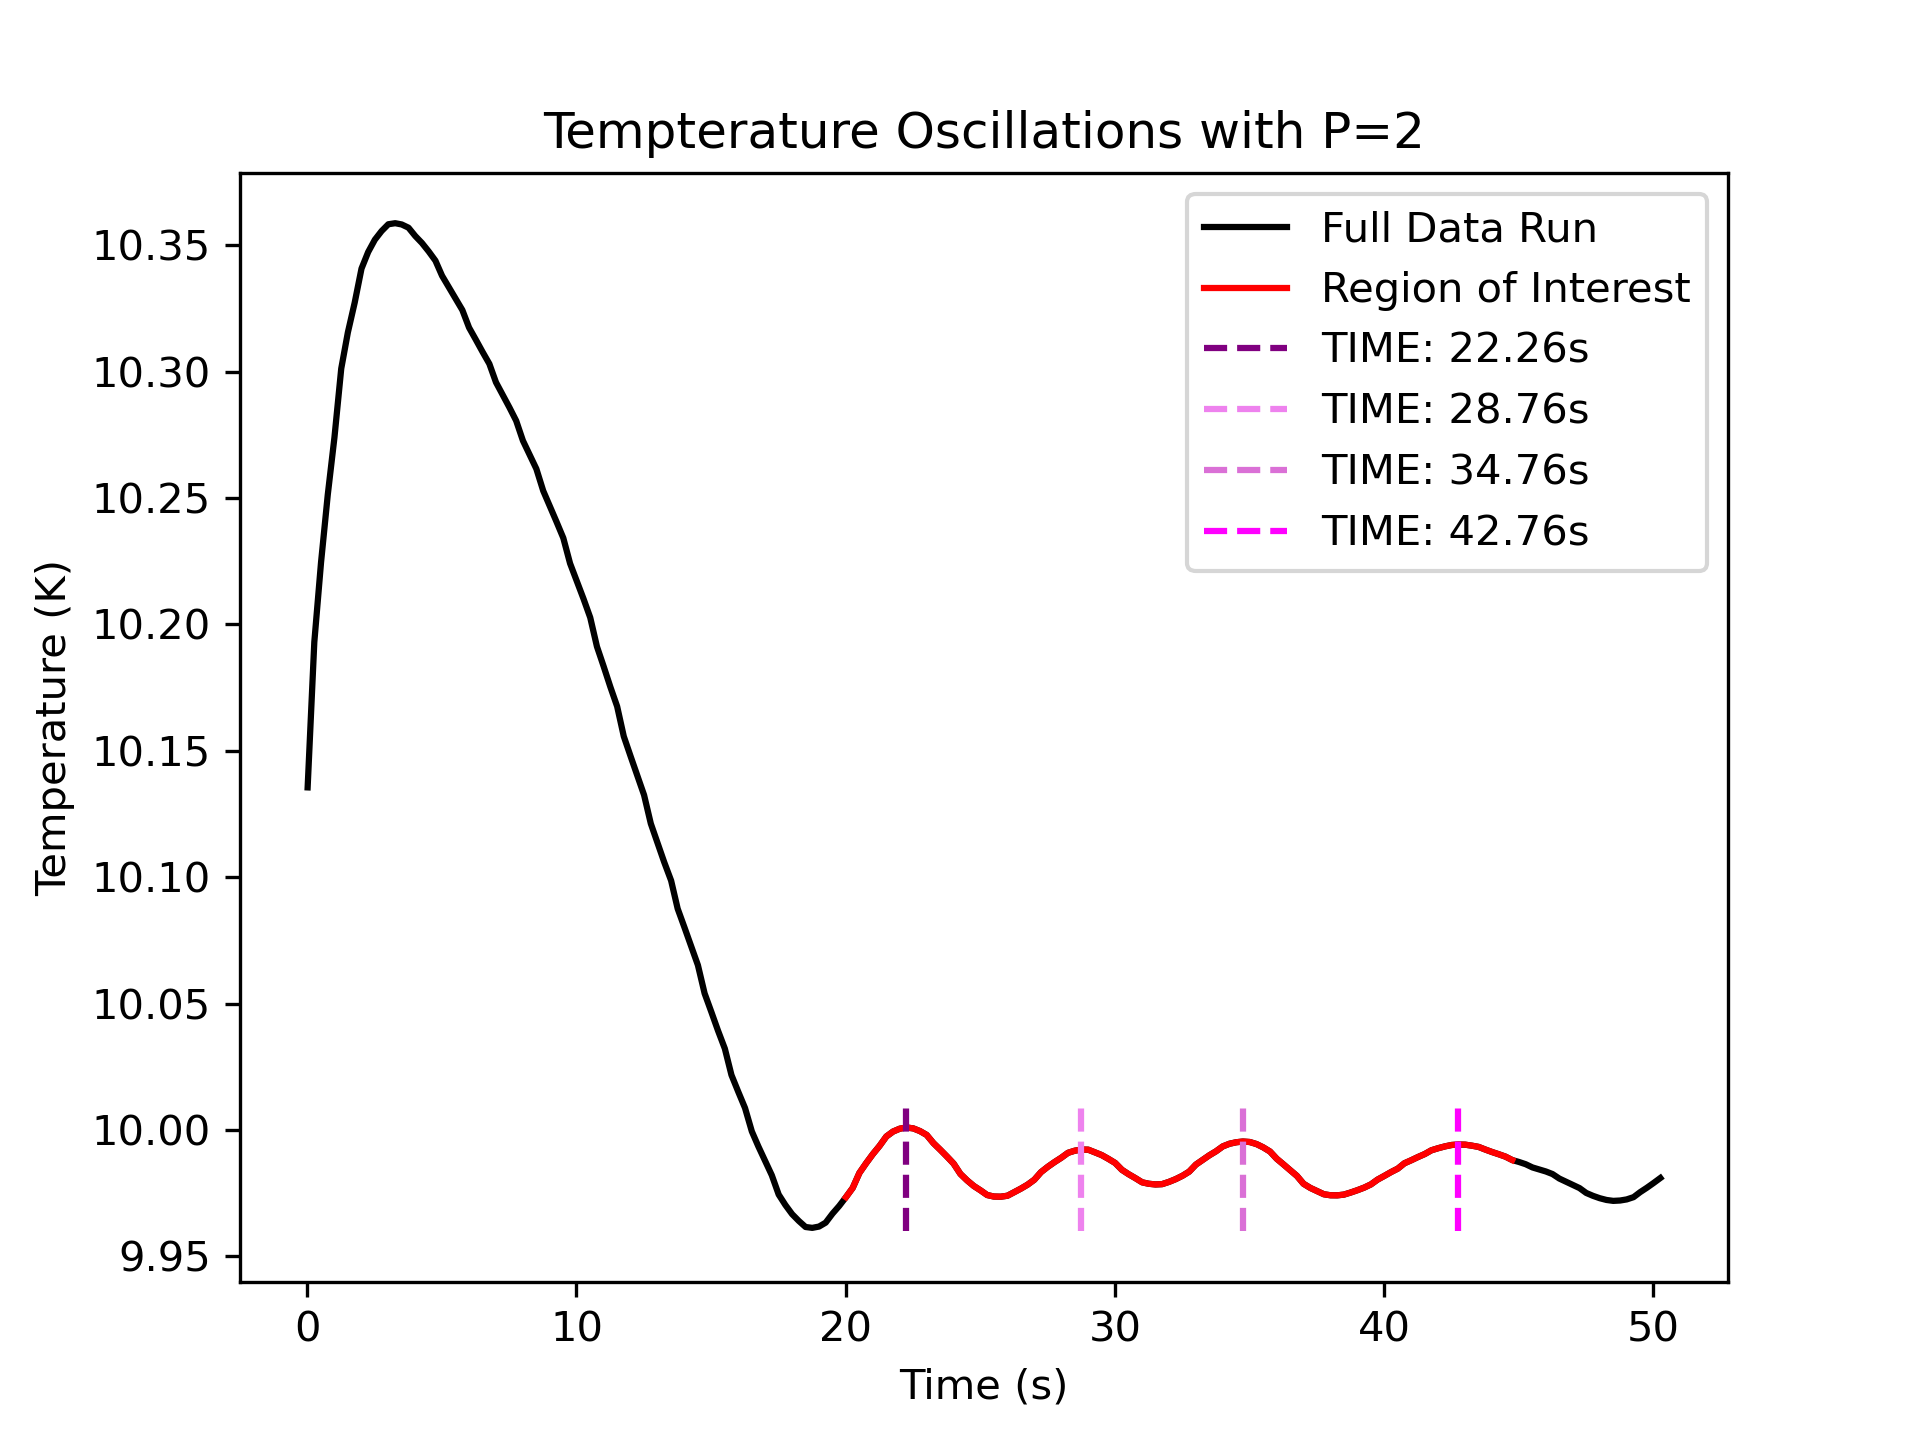
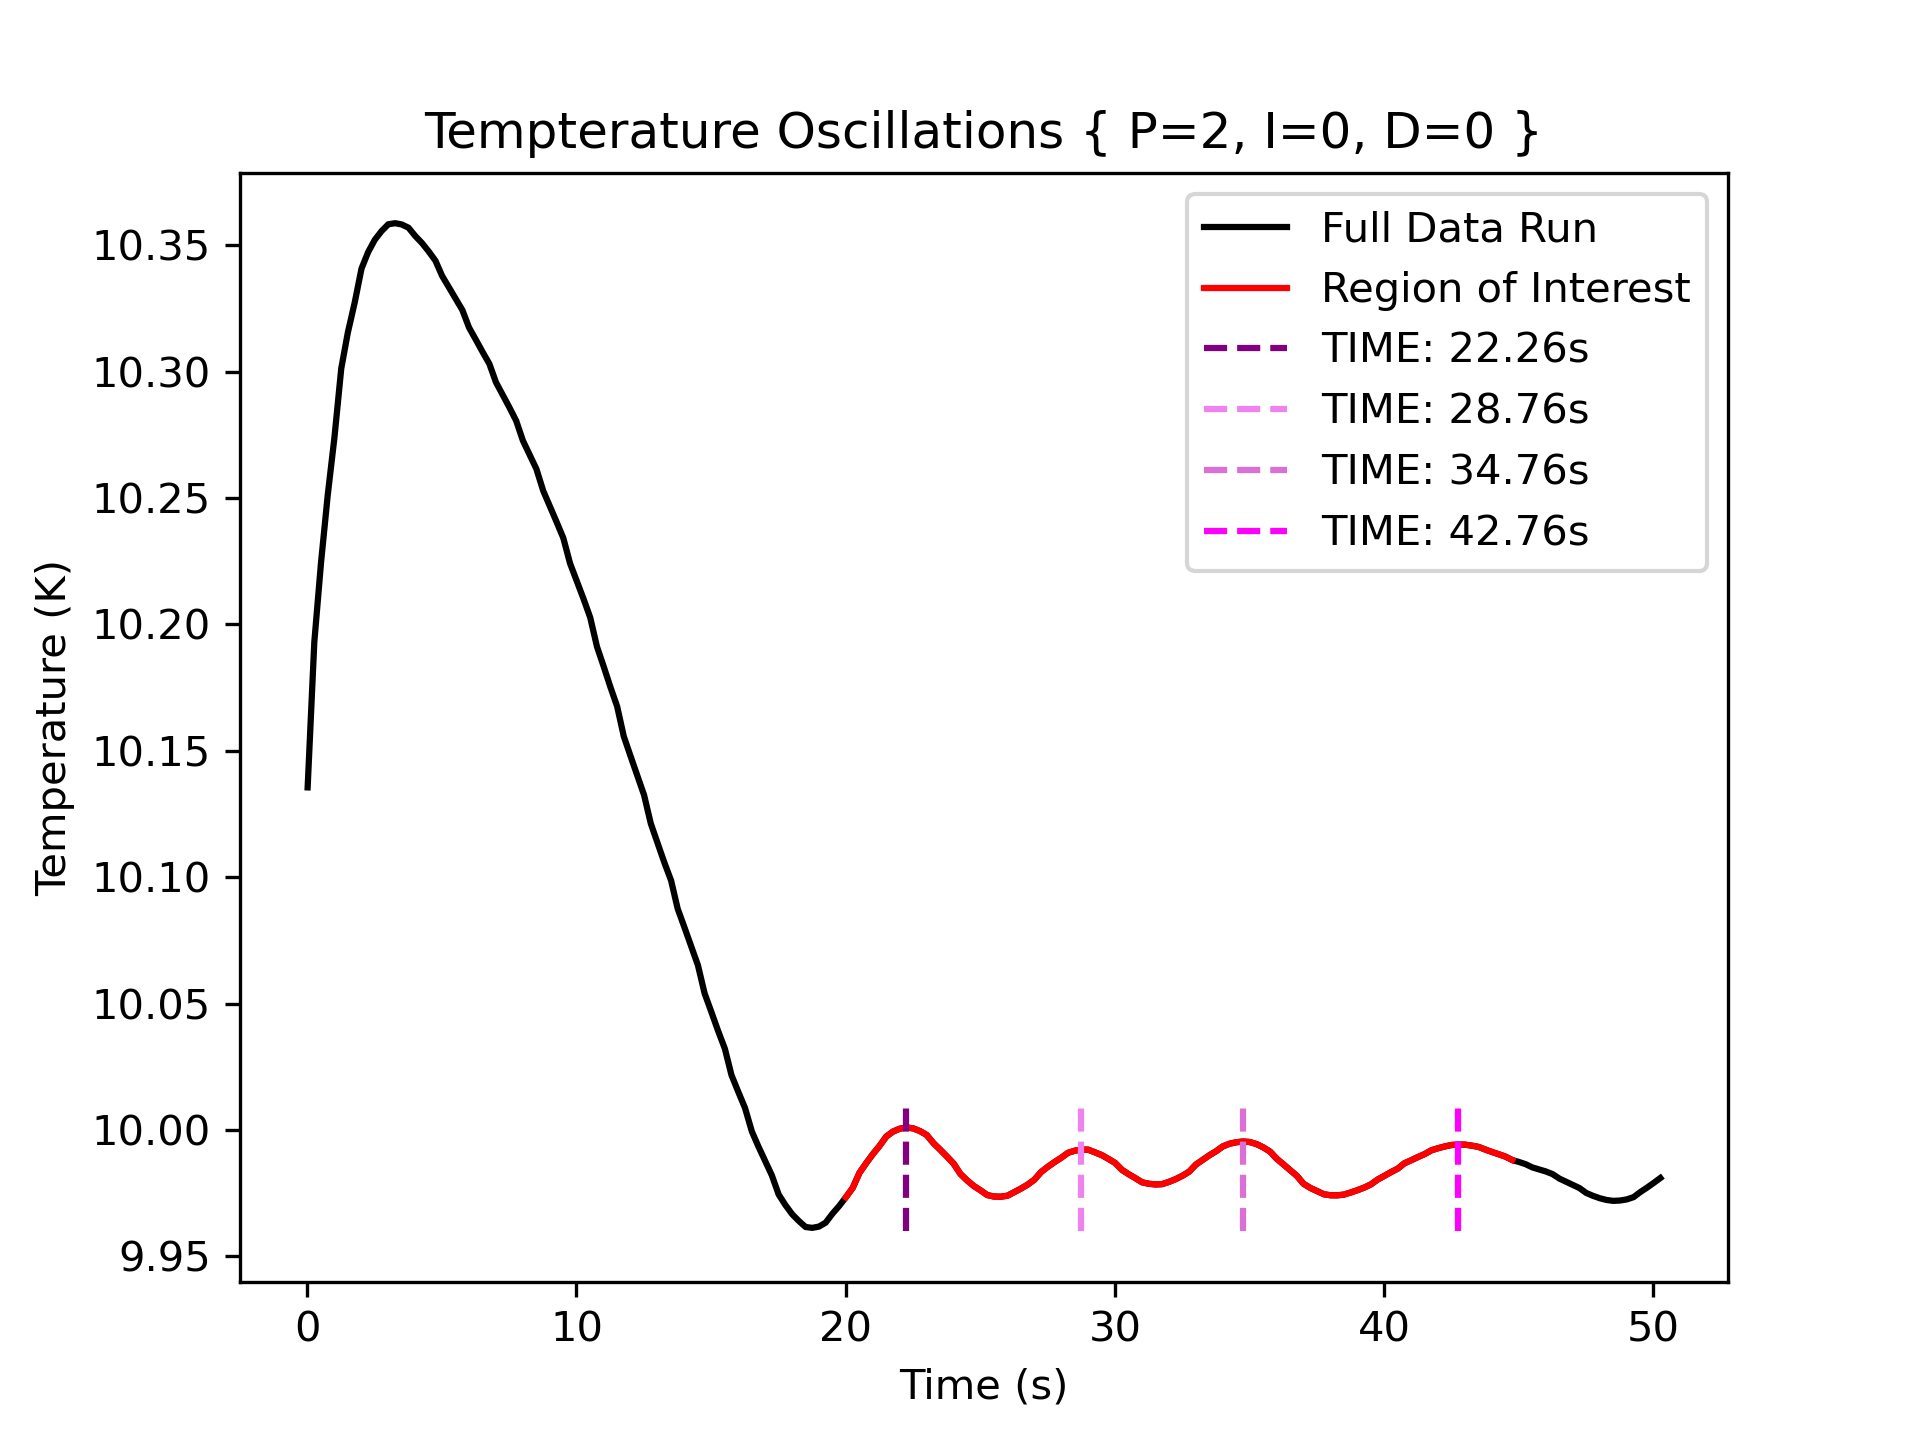
Created graphs for the raw data

Changed region(s): [[0.2188, 0.0625, 0.7812, 0.125]]

diff --git a/1_PID_Control/raw.py b/1_PID_Control/raw.py
@@ -1,0 +1,64 @@
+import matplotlib.pyplot as plt
+from pandas import read_csv
+
+def get_data(file: str):
+    file_data = read_csv(file)
+    time_data = file_data.get("Time (s)").to_numpy()
+    temp_data = file_data.get("Temperature (K)").to_numpy()
+    return (time_data, temp_data)
+
+data_10 = get_data("1.0_P_Oscillations_Data.csv")
+data_11 = get_data("1.1_Good_Control_1.0_P.csv")
+data_12 = get_data("1.2_Good_Control_0.5_P.csv")
+data_13 = get_data("1.3_Good_Control_2.0_P.csv")
+data_14 = get_data("1.4_Good_Control_1.5_P.csv")
+data_15 = get_data("1.5_Good_Control_0.5_I.csv")
+data_16 = get_data("1.6_Good_Control_2.0_I.csv")
+
+fig1, ax1 = plt.subplots()
+ax1.plot(*data_10, color='k', label="Raw Data")
+fig1.suptitle("Tempterature Oscillations { P=2, I=0, D=0 }")
+ax1.set_title("1.0_P_Oscillations_Data.csv")
+ax1.set_xlabel("Time (s)")
+ax1.set_ylabel("Temperature (K)")
+ax1.legend(loc="upper right")
+fig1.savefig("Raw_1.png", dpi=300)
+
+data_P = (
+    (data_11, "1.1_Good_Control_1.0_P.csv", "Raw Data: 1.0 * P"),
+    (data_12, "1.2_Good_Control_0.5_P.csv", "Raw Data: 0.5 * P"),
+    (data_13, "1.3_Good_Control_2.0_P.csv", "Raw Data: 2.0 * P"),
+    (data_14, "1.4_Good_Control_1.5_P.csv", "Raw Data: 1.5 * P"),
+)
+fig2, axes2 = plt.subplots(2, 2, figsize=(10.53, 7.47))
+axes2 = (*axes2[0], *axes2[1])
+fig2.suptitle("Tempterature Oscillations { P=0.8, I=5.46, D=0 }")
+for i, axes in enumerate(axes2):
+    data, title, label = data_P[i]
+    axes.plot(*data, color='k', label=label)
+    axes.set_title(title)
+    axes.set_xlabel("Time (s)")
+    axes.set_ylabel("Temperature (K)")
+    axes.legend(loc="lower right")
+plt.tight_layout()
+fig2.savefig("Raw_2.png", dpi=300)
+
+
+data_I = (
+    (data_15, "1.5_Good_Control_0.5_I.csv", "Raw Data: 0.5 * I"),
+    (data_16, "1.6_Good_Control_2.0_I.csv", "Raw Data: 2.0 * I"),
+)
+fig3, axes3 = plt.subplots(2)
+fig3.suptitle("Tempterature Oscillations { P=0.4, I=5.46, D=0 }")
+for i, axes in enumerate(axes3):
+    data, title, label = data_I[i]
+    axes.plot(*data, color='k', label=label)
+    axes.set_title(title)
+    axes.set_xlabel("Time (s)")
+    axes.set_ylabel("Temperature (K)")
+    axes.legend(loc="lower right")
+plt.tight_layout()
+fig3.savefig("Raw_3.png", dpi=300)
+
+
+plt.show()

diff --git a/1_PID_Control/1.1-4.py b/1_PID_Control/1.1-4.py
@@ -37,7 +37,7 @@ ax.plot(time_data_05_P-5.258, temp_data_05_P, color="lime", label=f"0.5P - σ: {
 ax.plot(time_data_10_P-5.519, temp_data_10_P, color='green', label=f"1.0P - σ: {sigma(temp_data_10_P_trunc):0.2f} - stabilisation time: 35s")
 ax.plot(time_data_15_P-2.759, temp_data_15_P, color='blue', label=f"1.5P - σ: {sigma(temp_data_15_P_trunc):0.2f} - stabilisation time: 30s")
 ax.plot(time_data_20_P-2.759, temp_data_20_P, color='cyan', label=f"2.0P - σ: {sigma(temp_data_20_P_trunc):0.2f} - stabilisation time: 27s")
-ax.set_title("Tempterature Oscillations { P=1.2, I=3.42 }")
+ax.set_title("Tempterature Oscillations { P=0.8, I=5.46, D=0 }")
 ax.set_xlabel("Time (s)")
 ax.set_ylabel("Temperature (K)")
 ax.legend(loc="lower right")

diff --git a/1_PID_Control/1.5-6.py b/1_PID_Control/1.5-6.py
@@ -31,7 +31,7 @@ ax.vlines(0, ymin=7.7, ymax=10.7, linestyle="dashed", color='k')
 ax.plot(time_data_05_I-2.261, temp_data_05_I, color="lime", label=f"0.5I - σ: {sigma(temp_data_05_I_trunc):0.2f} - stabilisation time: 47s")
 ax.plot(time_data_10_I-5.262, temp_data_10_I, color="green", label=f"1.0I - σ: {sigma(temp_data_10_I_trunc):0.2f} - stabilisation time: 48s")
 ax.plot(time_data_20_I-2.506, temp_data_20_I, color="cyan", label=f"2.0I - σ: {sigma(temp_data_20_I_trunc):0.2f} - stabilisation time: NAs")
-ax.set_title("Tempterature Oscillations { P=0.6, I=3.42 }")
+ax.set_title("Tempterature Oscillations { P=0.4, I=5.46, D=0 }")
 ax.set_xlabel("Time (s)")
 ax.set_ylabel("Temperature (K)")
 ax.legend(loc="lower right")

diff --git a/1_PID_Control/1.0.py b/1_PID_Control/1.0.py
@@ -27,7 +27,7 @@ print(f"The average period of oscillation is: {period_avg:1.2f}s")
 fig, ax = plt.subplots()
 ax.plot(time_data, temp_data, color='k', label="Full Data Run")
 ax.plot(time_data_trunc, temp_data_trunc, color='r', label="Region of Interest")
-ax.set_title("Tempterature Oscillations with P=2")
+ax.set_title("Tempterature Oscillations { P=2, I=0, D=0 }")
 ax.set_xlabel("Time (s)")
 ax.set_ylabel("Temperature (K)")
 col = ["purple", "violet", "orchid", "magenta"]
